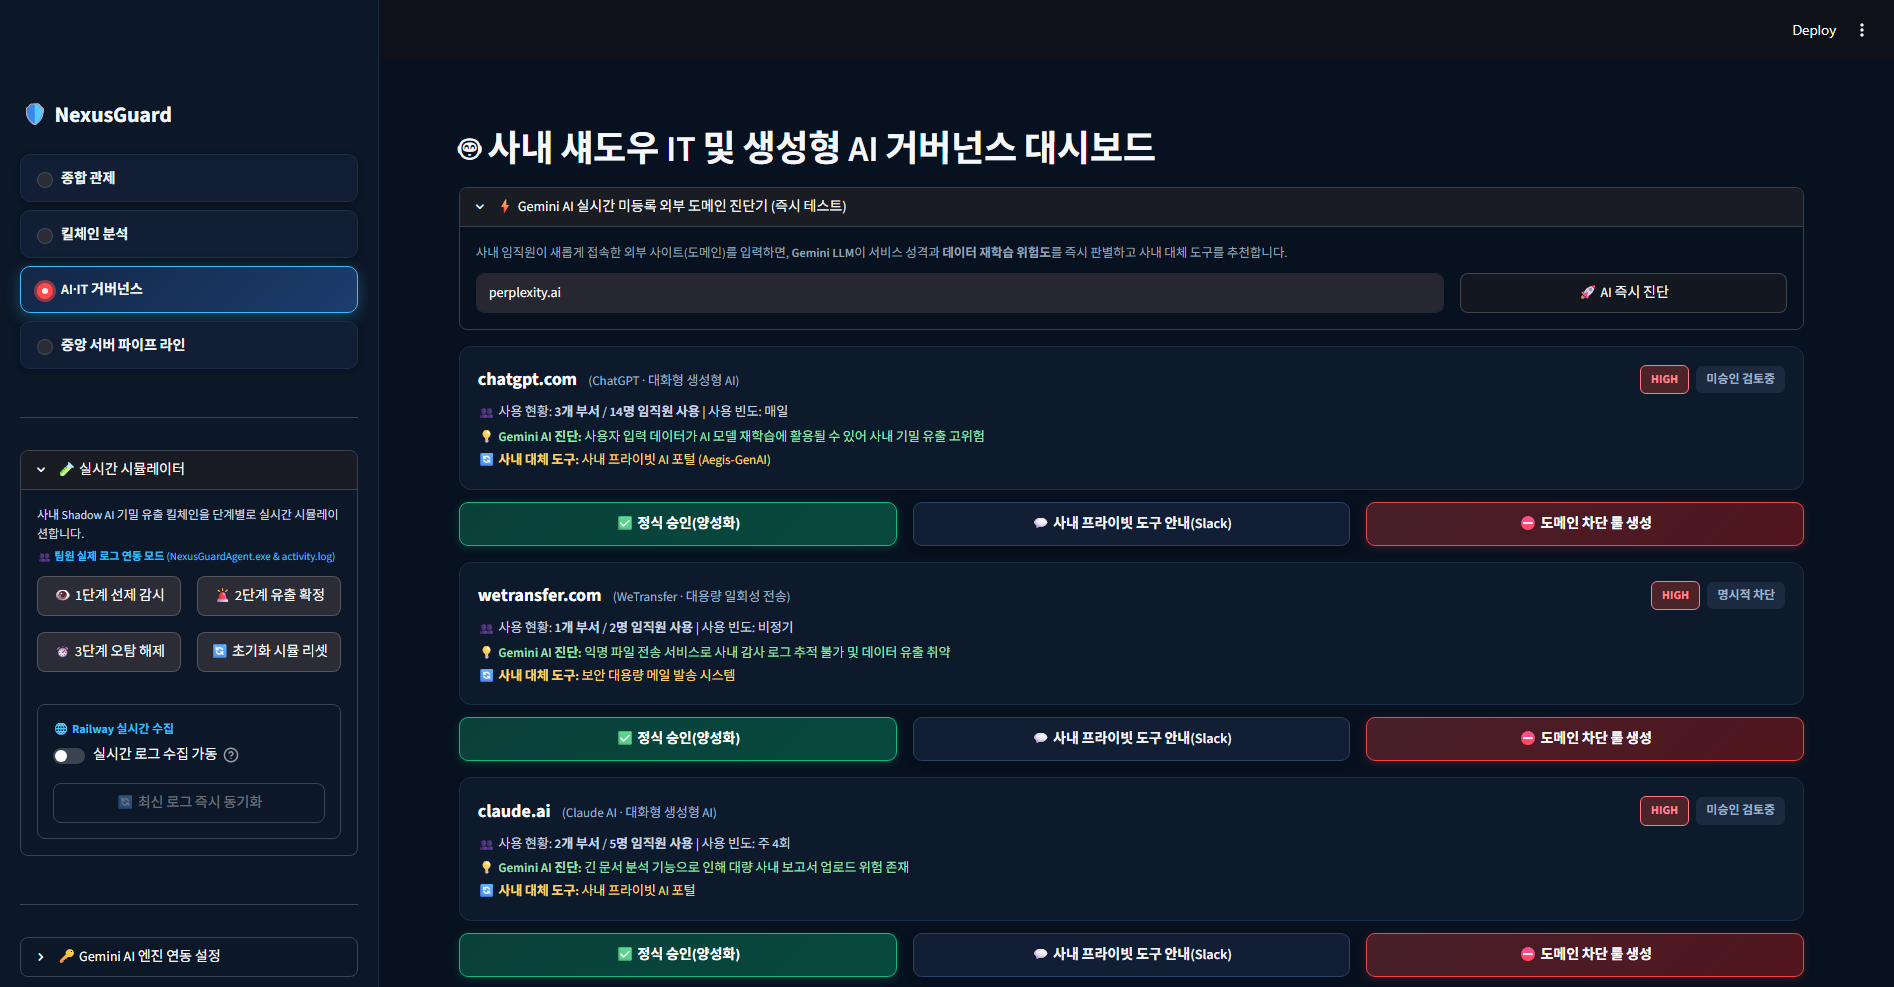
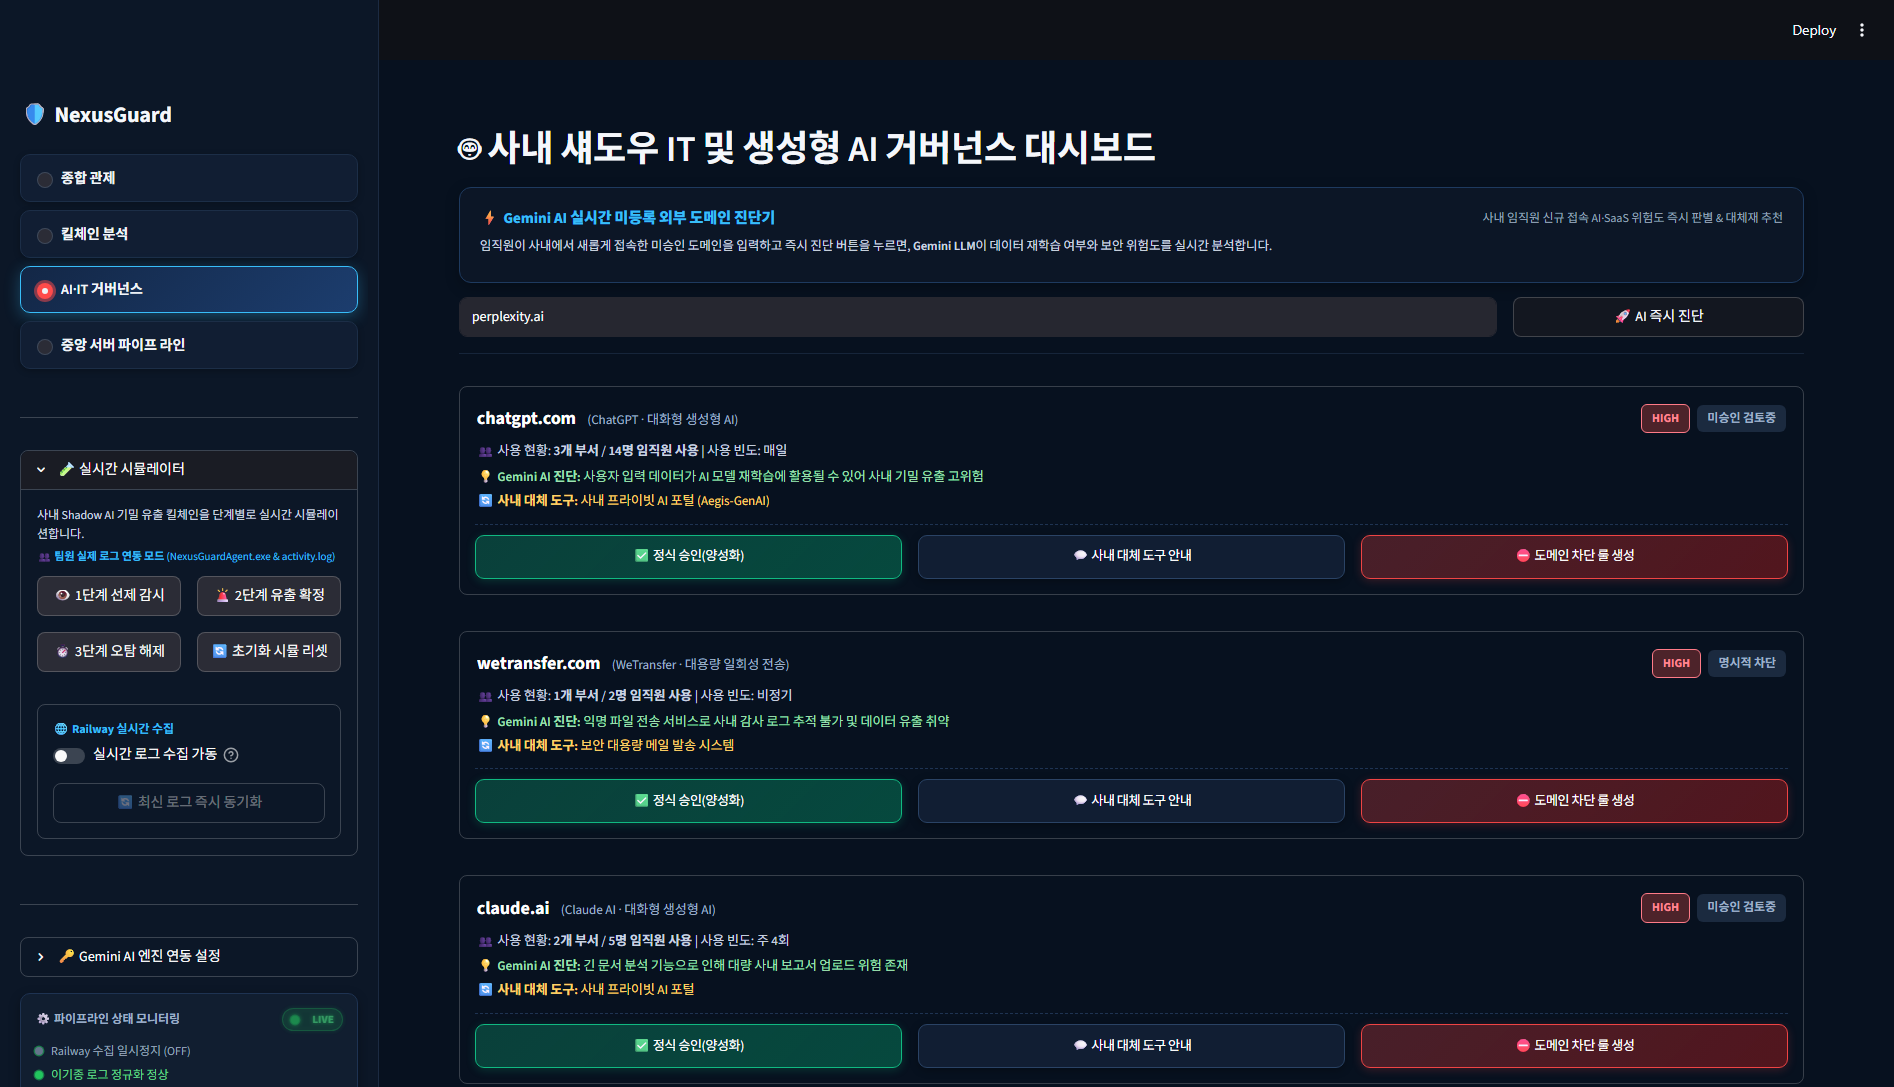
style(governance): inline ai diagnosis bar and expand domain card spacing

diff --git a/nexusguard/ui/app.py b/nexusguard/ui/app.py
@@ -490,11 +490,7 @@ st.markdown("""
         box-shadow: 0 4px 16px rgba(16, 185, 129, 0.45) !important;
         transform: translateY(-2px) !important;
     }
-    div[class*="st-key-app_"] button p {
-        color: #ffffff !important;
-        font-weight: 700 !important;
-    }
-    /* 사내 프라이빗 도구 안내(Slack) */
+    /* 사내 프라이빗 도구 안내 */
     div[class*="st-key-guide_"] button {
         background: #111e33 !important;
         border: 1px solid #2a4365 !important;
@@ -508,11 +504,7 @@ st.markdown("""
         box-shadow: 0 4px 14px rgba(56, 189, 248, 0.3) !important;
         transform: translateY(-2px) !important;
     }
-    div[class*="st-key-guide_"] button p {
-        color: #f1f5f9 !important;
-        font-weight: 600 !important;
-    }
-    /* 도메인 차단 룰 생성: 문구 시인성을 완벽히 유지하는 세련된 크림슨 레드 배경 */
+    /* 도메인 차단 룰 생성 */
     div[class*="st-key-blk_"] button {
         background: linear-gradient(135deg, rgba(239, 68, 68, 0.28) 0%, rgba(185, 28, 28, 0.42) 100%) !important;
         border: 1.5px solid #ef4444 !important;
@@ -525,9 +517,19 @@ st.markdown("""
         box-shadow: 0 4px 16px rgba(239, 68, 68, 0.45) !important;
         transform: translateY(-2px) !important;
     }
+    div[class*="st-key-app_"] button p,
+    div[class*="st-key-guide_"] button p,
     div[class*="st-key-blk_"] button p {
+        font-size: 13px !important;
+        white-space: nowrap !important;
+        letter-spacing: -0.3px !important;
         color: #ffffff !important;
-        font-weight: 700 !important;
+    }
+    div[class*="st-key-app_"] button,
+    div[class*="st-key-guide_"] button,
+    div[class*="st-key-blk_"] button {
+        min-height: 44px !important;
+        padding: 8px 6px !important;
     }
 
     /* 🌟 킬체인 심층 분석 바로가기 & 종합 관제 돌아가기 공통 액션 버튼 스타일 */
@@ -2083,25 +2085,45 @@ elif menu == "킬체인 분석":
 # ==========================================
 elif menu == "AI·IT 거버넌스":
     st.markdown("<h2>🤖 사내 섀도우 IT 및 생성형 AI 거버넌스 대시보드</h2>", unsafe_allow_html=True)
-    with st.expander("⚡ Gemini AI 실시간 미등록 외부 도메인 진단기 (즉시 테스트)", expanded=True):
-        st.markdown("""
-        <div style="color:#94a3b8; font-size:12.5px; margin-bottom:10px;">
-            사내 임직원이 새롭게 접속한 외부 사이트(도메인)를 입력하면, <b>Gemini LLM</b>이 서비스 성격과 <b>데이터 재학습 위험도</b>를 즉시 판별하고 사내 대체 도구를 추천합니다.
-        </div>
-        """, unsafe_allow_html=True)
-        col_in, col_btn = st.columns([3.5, 1.2])
-        with col_in:
-            test_domain_input = st.text_input("분석할 도메인 주소", value="perplexity.ai", placeholder="예: perplexity.ai, v0.dev, gamma.app, midjourney.com", label_visibility="collapsed")
-        with col_btn:
-            btn_run_gemini = st.button("🚀 AI 즉시 진단", use_container_width=True)
 
-        if btn_run_gemini and test_domain_input:
-            import os
-            active_key = st.session_state.get("gemini_api_key") or os.environ.get("GEMINI_API_KEY")
-            with st.spinner(f"'{test_domain_input}' 도메인의 보안 위험도를 Gemini AI로 진단 중..."):
-                new_asset = ctx.governance_engine.analyze_and_register_domain(test_domain_input, api_key=active_key)
-            st.success(f"'{new_asset.domain}' ({new_asset.service_name}) 분석 완료! [위험도: {new_asset.risk_level.value}] 사내 대체 권고: {new_asset.recommended_alternative}")
-            st.rerun()
+    # ⚡ Gemini AI 실시간 미등록 외부 도메인 진단기 (오픈형 인라인 바)
+    st.markdown("""
+    <div style="background:#0c1626; border:1px solid #1e3a5f; border-radius:12px; padding:18px 20px 14px 20px; margin-bottom:14px; box-shadow:0 4px 14px rgba(0,0,0,0.25);">
+        <div style="display:flex; justify-content:space-between; align-items:center; margin-bottom:6px;">
+            <span style="font-size:15px; font-weight:800; color:#38bdf8; display:flex; align-items:center; gap:6px;">
+                ⚡ Gemini AI 실시간 미등록 외부 도메인 진단기
+            </span>
+            <span style="font-size:12px; color:#94a3b8;">
+                사내 임직원 신규 접속 AI·SaaS 위험도 즉시 판별 & 대체재 추천
+            </span>
+        </div>
+        <div style="color:#cbd5e1; font-size:12.5px; margin-bottom:12px;">
+            임직원이 사내에서 새롭게 접속한 미승인 도메인을 입력하고 즉시 진단 버튼을 누르면, <b>Gemini LLM</b>이 데이터 재학습 여부와 보안 위험도를 실시간 분석합니다.
+        </div>
+    </div>
+    """, unsafe_allow_html=True)
+
+    col_in, col_btn = st.columns([4.2, 1.2])
+    with col_in:
+        test_domain_input = st.text_input(
+            "분석할 도메인 주소",
+            value="perplexity.ai",
+            placeholder="예: perplexity.ai, v0.dev, gamma.app, midjourney.com",
+            label_visibility="collapsed",
+            key="gemini_test_domain_input"
+        )
+    with col_btn:
+        btn_run_gemini = st.button("🚀 AI 즉시 진단", key="btn_run_gemini_diag", use_container_width=True)
+
+    if btn_run_gemini and test_domain_input:
+        import os
+        active_key = st.session_state.get("gemini_api_key") or os.environ.get("GEMINI_API_KEY")
+        with st.spinner(f"'{test_domain_input}' 도메인의 보안 위험도를 Gemini AI로 진단 중..."):
+            new_asset = ctx.governance_engine.analyze_and_register_domain(test_domain_input, api_key=active_key)
+        st.success(f"'{new_asset.domain}' ({new_asset.service_name}) 분석 완료! [위험도: {new_asset.risk_level.value}] 사내 대체 권고: {new_asset.recommended_alternative}")
+        st.rerun()
+
+    st.markdown("<div style='margin-bottom:32px; border-bottom:1px solid #16253a;'></div>", unsafe_allow_html=True)
 
     shadow_assets = ctx.governance_engine.get_all_assets()
 
@@ -2109,44 +2131,51 @@ elif menu == "AI·IT 거버넌스":
         badge_style = "badge-high" if asset.risk_level == Severity.HIGH else ("badge-medium" if asset.risk_level == Severity.MEDIUM else "badge-low")
         status_text = "정식 승인됨" if asset.sanction_status == SanctionStatus.APPROVED else ("명시적 차단" if asset.sanction_status == SanctionStatus.BLOCKED else "미승인 검토중")
         
-        st.markdown(f"""
-        <div style="background:#0d1a2b; border:1px solid #1c2e47; border-radius:12px; padding:18px; margin-bottom:12px;">
-            <div style="display:flex; justify-content:space-between; align-items:center;">
-                <div>
-                    <span style="font-size:18px; font-weight:bold; color:#ffffff;">{asset.domain}</span>
-                    <span style="color:#9fb0c8; font-size:13px; margin-left:8px;">({asset.service_name} · {asset.category})</span>
+        # 🌟 도메인 일체형 카드 컨테이너
+        with st.container(border=True):
+            st.markdown(f"""
+            <div style="padding: 2px 2px 0 2px;">
+                <div style="display:flex; justify-content:space-between; align-items:center;">
+                    <div>
+                        <span style="font-size:18px; font-weight:bold; color:#ffffff;">{asset.domain}</span>
+                        <span style="color:#9fb0c8; font-size:13px; margin-left:8px;">({asset.service_name} · {asset.category})</span>
+                    </div>
+                    <div>
+                        <span class="badge {badge_style}">{asset.risk_level.value}</span>
+                        <span class="badge" style="background:#1b2a3f; color:#9fb0c8; margin-left:4px;">{status_text}</span>
+                    </div>
                 </div>
-                <div>
-                    <span class="badge {badge_style}">{asset.risk_level.value}</span>
-                    <span class="badge" style="background:#1b2a3f; color:#9fb0c8; margin-left:4px;">{status_text}</span>
+                <div style="font-size:13px; color:#c9d3e2; margin-top:8px;">
+                    👥 사용 현황: <b>{asset.department_count}개 부서</b> / <b>{asset.user_count}명 임직원 사용</b> | 사용 빈도: {asset.usage_frequency}
+                </div>
+                <div style="font-size:13px; color:#9ee0b2; margin-top:5px;">
+                    💡 <b>Gemini AI 진단:</b> {asset.ai_diagnosis}
+                </div>
+                <div style="font-size:13px; color:#ffd169; margin-top:3px;">
+                    🔄 <b>사내 대체 도구:</b> {asset.recommended_alternative or '사내 표준 도구 유지'}
                 </div>
             </div>
-            <div style="font-size:13px; color:#c9d3e2; margin-top:8px;">
-                👥 사용 현황: <b>{asset.department_count}개 부서</b> / <b>{asset.user_count}명 임직원 사용</b> | 사용 빈도: {asset.usage_frequency}
-            </div>
-            <div style="font-size:13px; color:#9ee0b2; margin-top:4px;">
-                💡 <b>Gemini AI 진단:</b> {asset.ai_diagnosis}
-            </div>
-            <div style="font-size:13px; color:#ffd169; margin-top:2px;">
-                🔄 <b>사내 대체 도구:</b> {asset.recommended_alternative or '사내 표준 도구 유지'}
-            </div>
-        </div>
-        """, unsafe_allow_html=True)
+            <div style="border-top: 1px dashed #1e3352; margin: 12px 0 10px 0;"></div>
+            """, unsafe_allow_html=True)
 
-        act_col1, act_col2, act_col3 = st.columns([1, 1, 1])
-        with act_col1:
-            if st.button(f"✅ 정식 승인(양성화)", key=f"app_{asset.domain}", use_container_width=True, help="해당 SaaS를 회사 승인 소프트웨어 목록에 등록하고 정식 라이선스 계약을 추진합니다."):
-                ctx.governance_engine.update_sanction_status(asset.domain, SanctionStatus.APPROVED)
-                st.success(f"'{asset.domain}' 서비스가 사내 승인 목록으로 전환되었습니다.")
-                st.rerun()
-        with act_col2:
-            if st.button(f"💬 사내 프라이빗 도구 안내(Slack)", key=f"guide_{asset.domain}", use_container_width=True, help="사용자에게 사내 승인 대체 보안 도구 사용 가이드를 DM으로 발송합니다."):
-                st.info(f"해당 사용자 그룹에게 '{asset.recommended_alternative}' 사용 가이드가 발송되었습니다.")
-        with act_col3:
-            if st.button(f"⛔ 도메인 차단 룰 생성", key=f"blk_{asset.domain}", use_container_width=True, help="DNS 싱크홀 및 방화벽 차단 정책에 등록하여 접근을 차단합니다."):
-                ctx.governance_engine.update_sanction_status(asset.domain, SanctionStatus.BLOCKED)
-                st.warning(f"'{asset.domain}' DNS 싱크홀 및 방화벽 차단 룰이 등록되었습니다.")
-                st.rerun()
+            # 🌟 도메인 조치 액션 버튼 (카드 내부 일체화)
+            act_col1, act_col2, act_col3 = st.columns([1, 1, 1])
+            with act_col1:
+                if st.button(f"✅ 정식 승인(양성화)", key=f"app_{asset.domain}", use_container_width=True, help="해당 SaaS를 회사 승인 소프트웨어 목록에 등록하고 정식 라이선스 계약을 추진합니다."):
+                    ctx.governance_engine.update_sanction_status(asset.domain, SanctionStatus.APPROVED)
+                    st.success(f"'{asset.domain}' 서비스가 사내 승인 목록으로 전환되었습니다.")
+                    st.rerun()
+            with act_col2:
+                if st.button(f"💬 사내 대체 도구 안내", key=f"guide_{asset.domain}", use_container_width=True, help="사용자에게 사내 승인 대체 보안 도구 사용 가이드를 DM으로 발송합니다."):
+                    st.info(f"해당 사용자 그룹에게 '{asset.recommended_alternative}' 사용 가이드가 발송되었습니다.")
+            with act_col3:
+                if st.button(f"⛔ 도메인 차단 룰 생성", key=f"blk_{asset.domain}", use_container_width=True, help="DNS 싱크홀 및 방화벽 차단 정책에 등록하여 접근을 차단합니다."):
+                    ctx.governance_engine.update_sanction_status(asset.domain, SanctionStatus.BLOCKED)
+                    st.warning(f"'{asset.domain}' DNS 싱크홀 및 방화벽 차단 룰이 등록되었습니다.")
+                    st.rerun()
+
+        # 도메인 박스 간격 추가 (시인성 극대화)
+        st.markdown("<div style='margin-bottom: 20px;'></div>", unsafe_allow_html=True)
 
 
 # ==========================================
